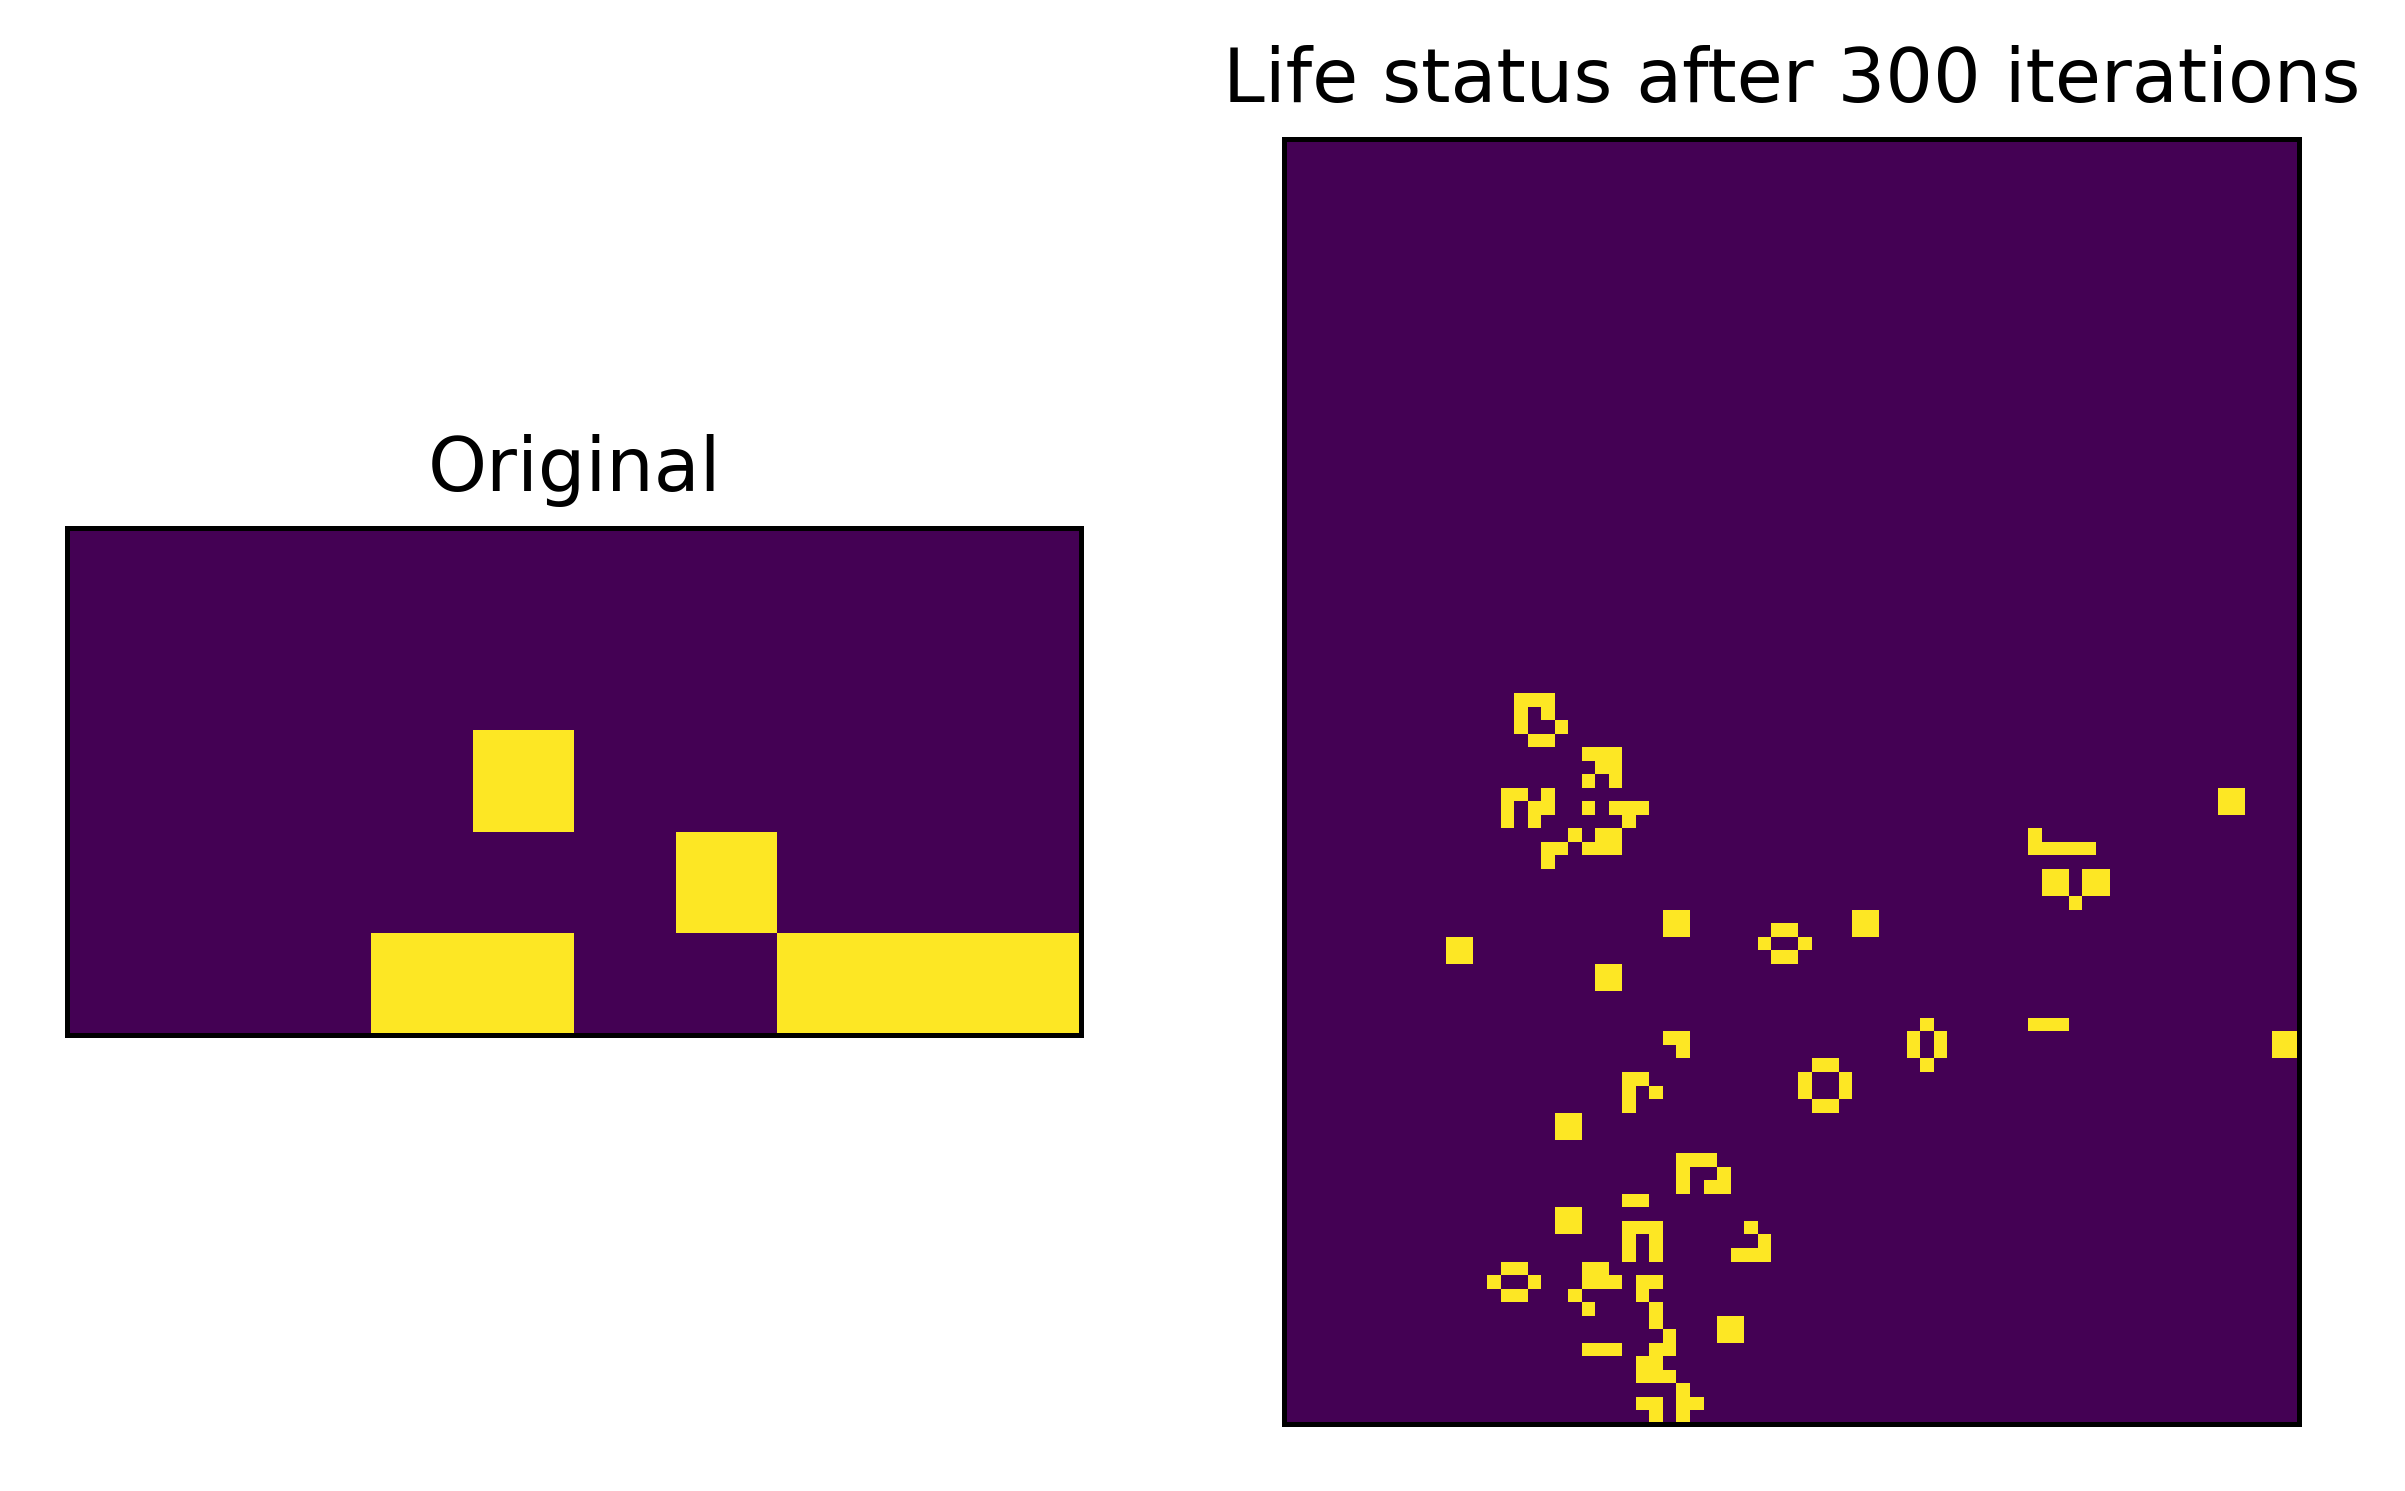
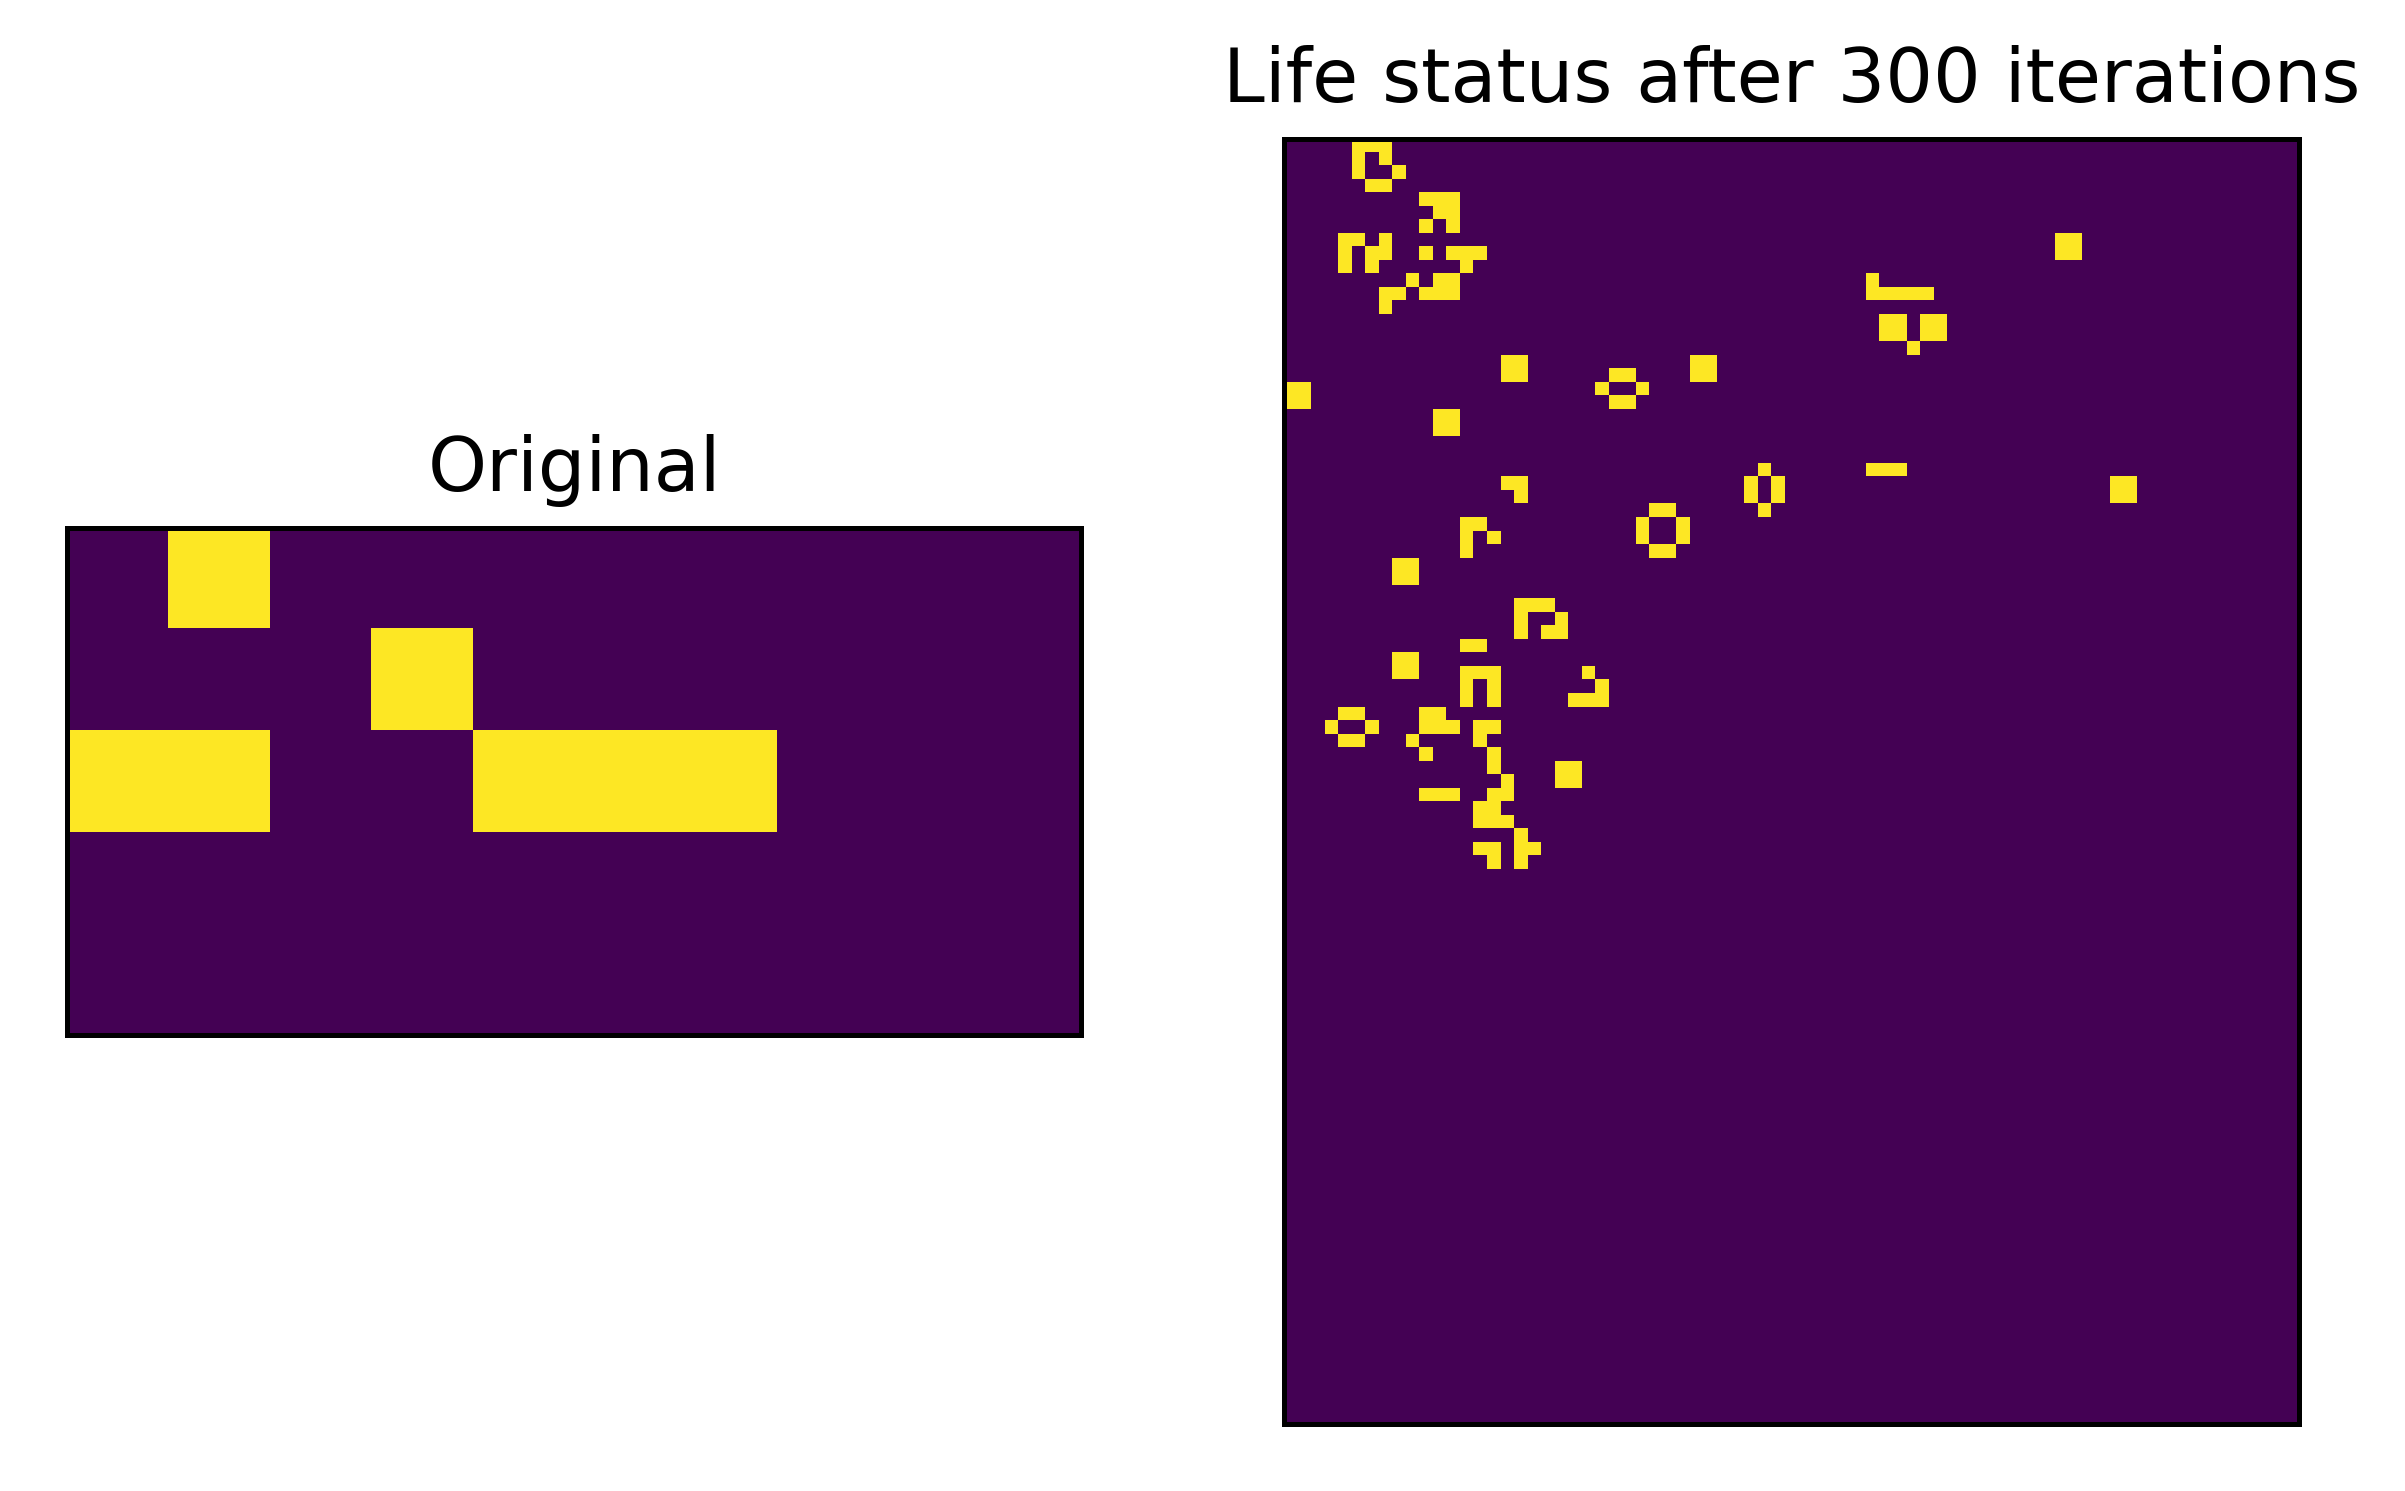
Update plotting

diff --git a/src/utils.py b/src/utils.py
@@ -59,24 +59,34 @@ def _read_lif(filename):
     return positions, description
 
 def plot_points(pattern, result, title="Game of Life", output_image_name='outputs/output.png'):
-    cmap = np.zeros((200,200))
-    cmap_original = np.zeros((200,200))
+    x_max_pat = max([x for x, y in pattern])
+    y_max_pat = max([y for x, y in pattern])
+    x_max_res = max([x for x, y in result])
+    y_max_res = max([y for x, y in result])
+
+    x_min_pat = min([x for x, y in pattern])
+    y_min_pat = min([y for x, y in pattern])
+    x_min_res = min([x for x, y in result])
+    y_min_res = min([y for x, y in result])
+
+    cmap_res = np.zeros((y_max_res+1, x_max_res+1))
+    cmap_pat = np.zeros((y_max_pat+1, x_max_pat+1))
     for x, y in pattern:
-        cmap_original[y+cmap_original.shape[0]//2, x+cmap_original.shape[1]//2] = 1
+        cmap_pat[y-y_min_pat, x-x_min_pat] = 1
 
     for x, y in result:
-        cmap[y+cmap.shape[0]//2, x+cmap.shape[1]//2] = 1
-
-
-    # from pprint import pprint
-    # pprint(cmap)
+        cmap_res[y-y_min_res, x-x_min_res] = 1
 
     fig, ax = plt.subplots(1, 2)
-    ax[0].imshow(cmap_original)
+    ax[0].imshow(cmap_pat)
     ax[0].set_title("Original")
-    ax[1].imshow(cmap)
+    ax[0].xaxis.set_visible(False)
+    ax[0].yaxis.set_visible(False)
+    ax[1].imshow(cmap_res)
     ax[1].set_title(title)
-    plt.savefig(output_image_name, dpi=450)
+    ax[1].xaxis.set_visible(False)
+    ax[1].yaxis.set_visible(False)
+    plt.savefig(output_image_name, dpi=450, bbox_inches='tight')
     return ax, output_image_name
 
 
@@ -93,10 +103,10 @@ class Node:
         return self.hash
 
     def __str__(self):
-        return f"Node: level-{self.level} ({1<<self.level}x{1<<self.level}), population: {self.n}"
+        return f"Node: level-{self.level} ({1<<self.level}x{1<<self.level}), population: ({self.n})"
 
     def __repr__(self):
-        return f"Node: level-{self.level} ({1<<self.level}x{1<<self.level}), population: {self.n}"
+        return f"Node: level-{self.level} ({1<<self.level}x{1<<self.level}), population: ({self.n})"
 
 
 _DEAD = Node(level=0, n=0, hashvalue=0)

diff --git a/src/quadlife.py b/src/quadlife.py
@@ -1,18 +1,19 @@
 from functools import lru_cache
 from .utils import read_pattern, Node, get_dead, get_alive
 import time
+from tqdm import tqdm
 
 
 def play(filename, iterations):
     points, desc = read_pattern(filename)
     root_node = _list_to_tree(points)
     start_t = time.time()
-    result = _play_game(root_node, iterations)
+    result, all_nodes = _play_game(root_node, iterations)
     end_t = time.time()
     time_taken = end_t - start_t
-    # all_nodes_points = [_tree_to_list(node) for node in all_nodes]
+    all_nodes_points = [(_tree_to_list(node), steps) for node, steps in all_nodes]
     result_points = _tree_to_list(result)
-    return points, result_points, time_taken
+    return points, result_points, all_nodes_points, time_taken
 
 
 def _play_game(node, iterations=0):
@@ -27,11 +28,14 @@ def _play_game(node, iterations=0):
     for _ in range(len(iterations_binary)):
         node = _center_node(node)
 
+    all_nodes = [(node, 0)]
     for i, bit in enumerate(iterations_binary):
         if bit:
             steps = len(iterations_binary) - i - 1
             node = _calculate_generations(node, steps)
-    return _clip(node)
+            iterations_done = all_nodes[-1][1] + 2**steps
+            all_nodes.append((_clip(node), iterations_done))
+    return all_nodes[-1][0], all_nodes
 
 
 def _tree_to_list(node, x=0, y=0, level=0):
@@ -72,8 +76,8 @@ def _list_to_tree(points):
             next_level[x >> 1, y >> 1] = _combine(nw, ne, sw, se)
         pattern = next_level
         level += 1
-    return _pad(pattern.popitem()[1])
-
+    result = _pad(pattern.popitem()[1])
+    return result
 
 @lru_cache()
 def _calculate_generations(node, step=None):

diff --git a/runner.py b/runner.py
@@ -13,11 +13,17 @@ parser.add_argument(
     "--iterations",
     type=int,
     required=True,
-    help="Number of iterations to run for the game"
+    help="Number of iterations to run for the game",
 )
 args = vars(parser.parse_args())
 
 if __name__ == "__main__":
-    result = quadlife.play(args["filename"], args["iterations"])
+    pattern, result, all_nodes_points, time_taken = quadlife.play(args["filename"], args["iterations"])
+    print(f'Time taken: {time_taken} seconds')
     output_image_name = f"./outputs/{args['filename'].rsplit('/')[-1].split('.')[0]}_output_{args['iterations']}_iterations.png"
-    ax = plot_points(result, title=f"Life status after {args['iterations']} iterations", output_image_name=output_image_name)
+    ax = plot_points(
+        pattern,
+        result,
+        title=f"Life status after {args['iterations']} iterations",
+        output_image_name=output_image_name,
+    )
